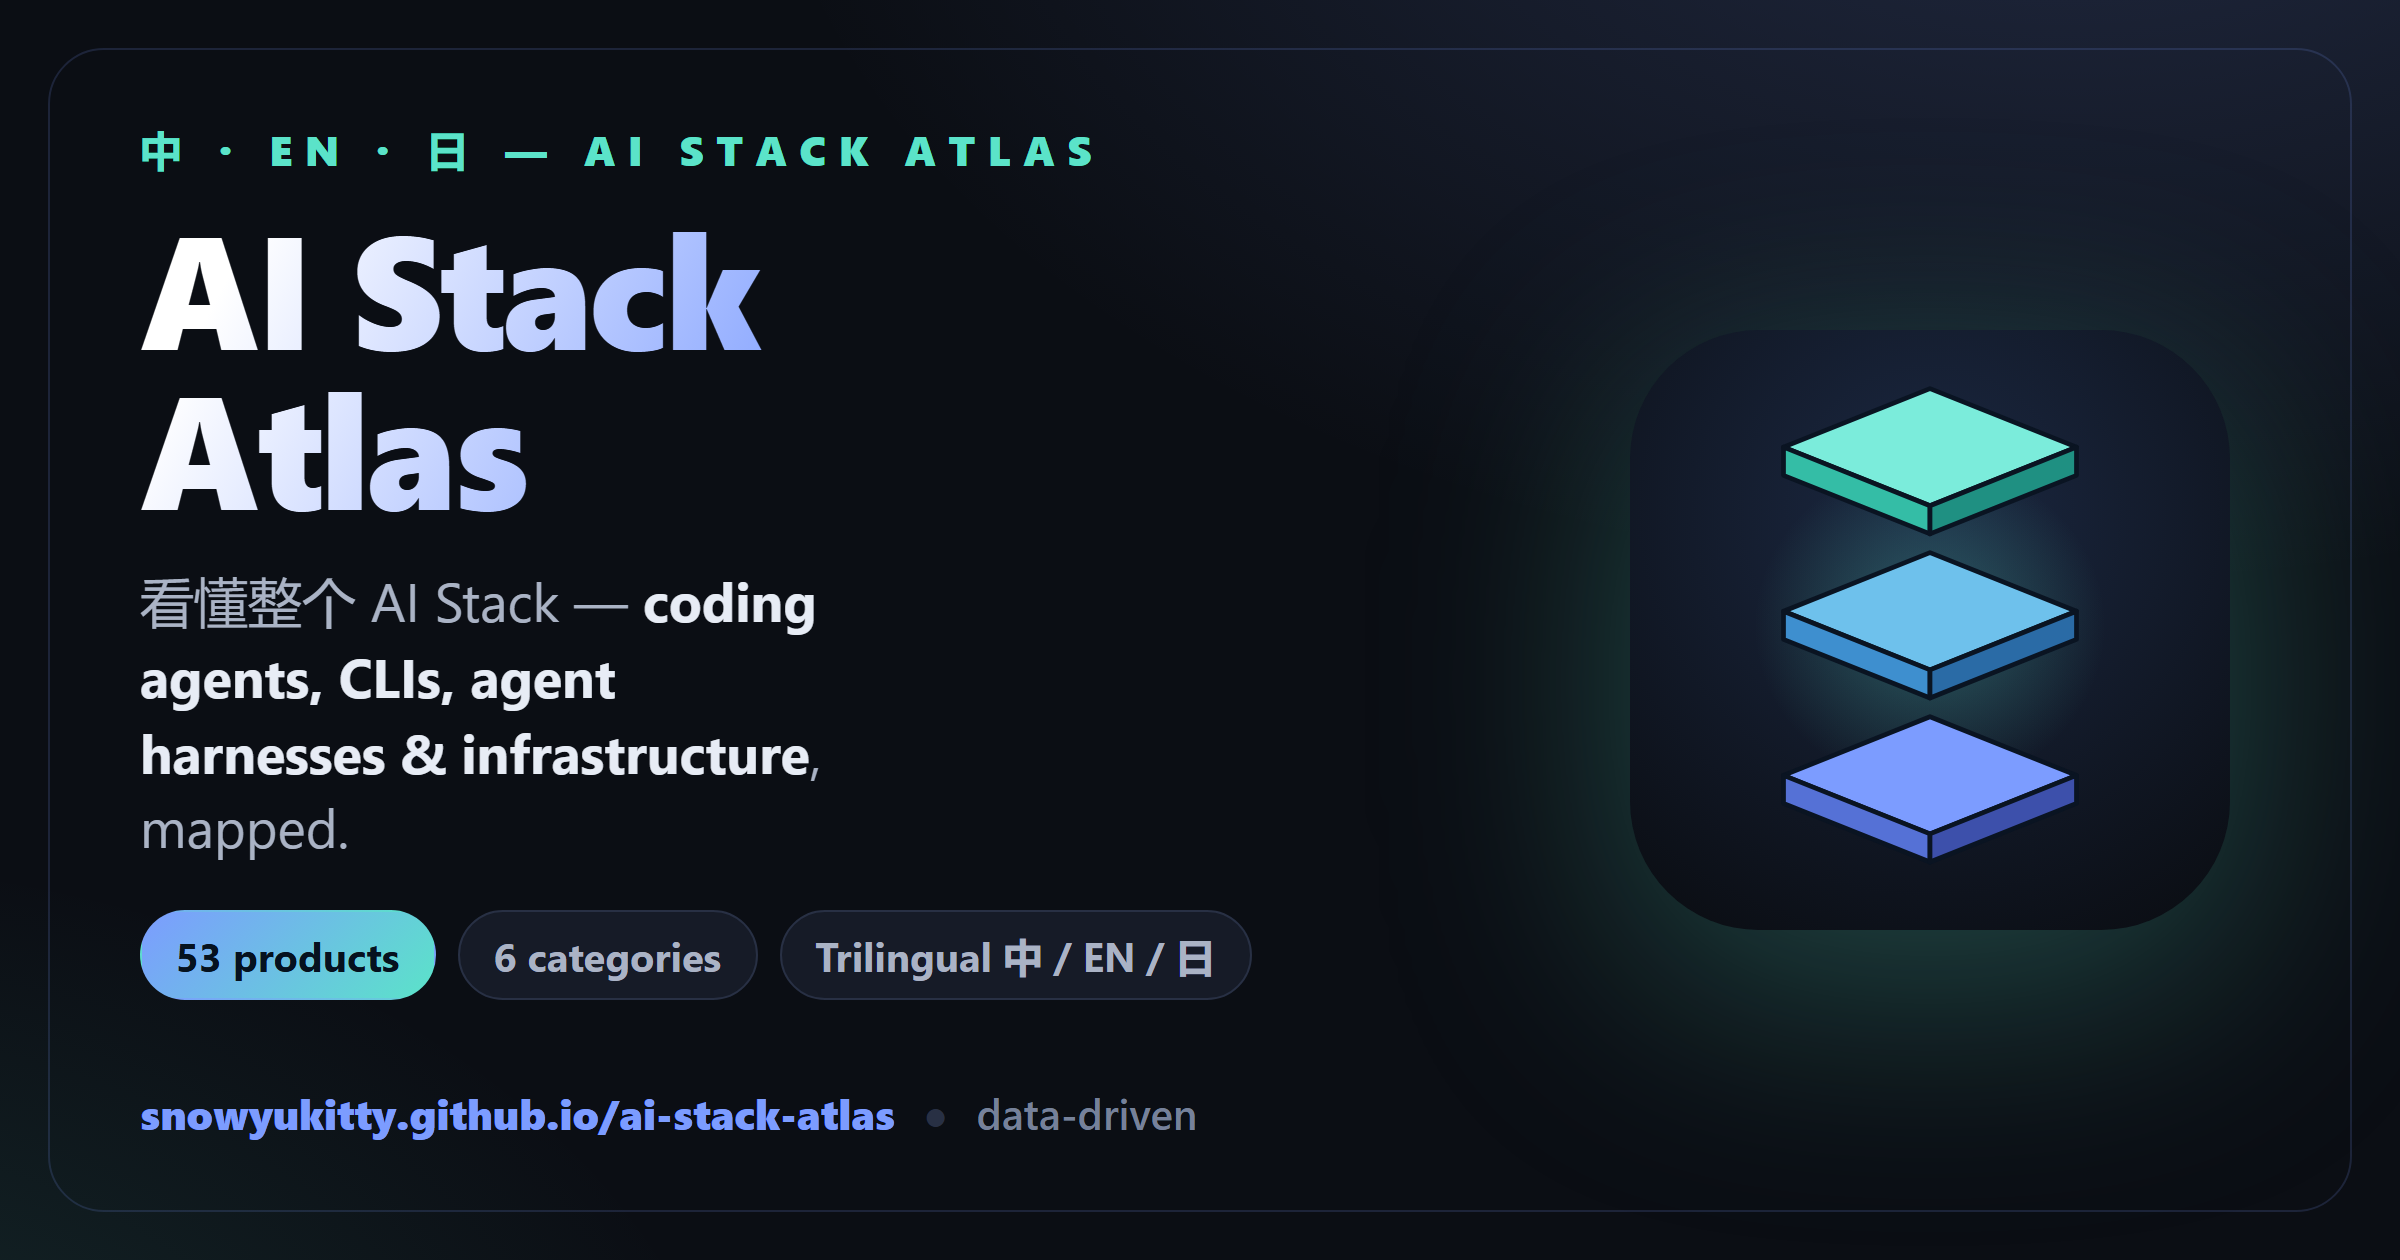
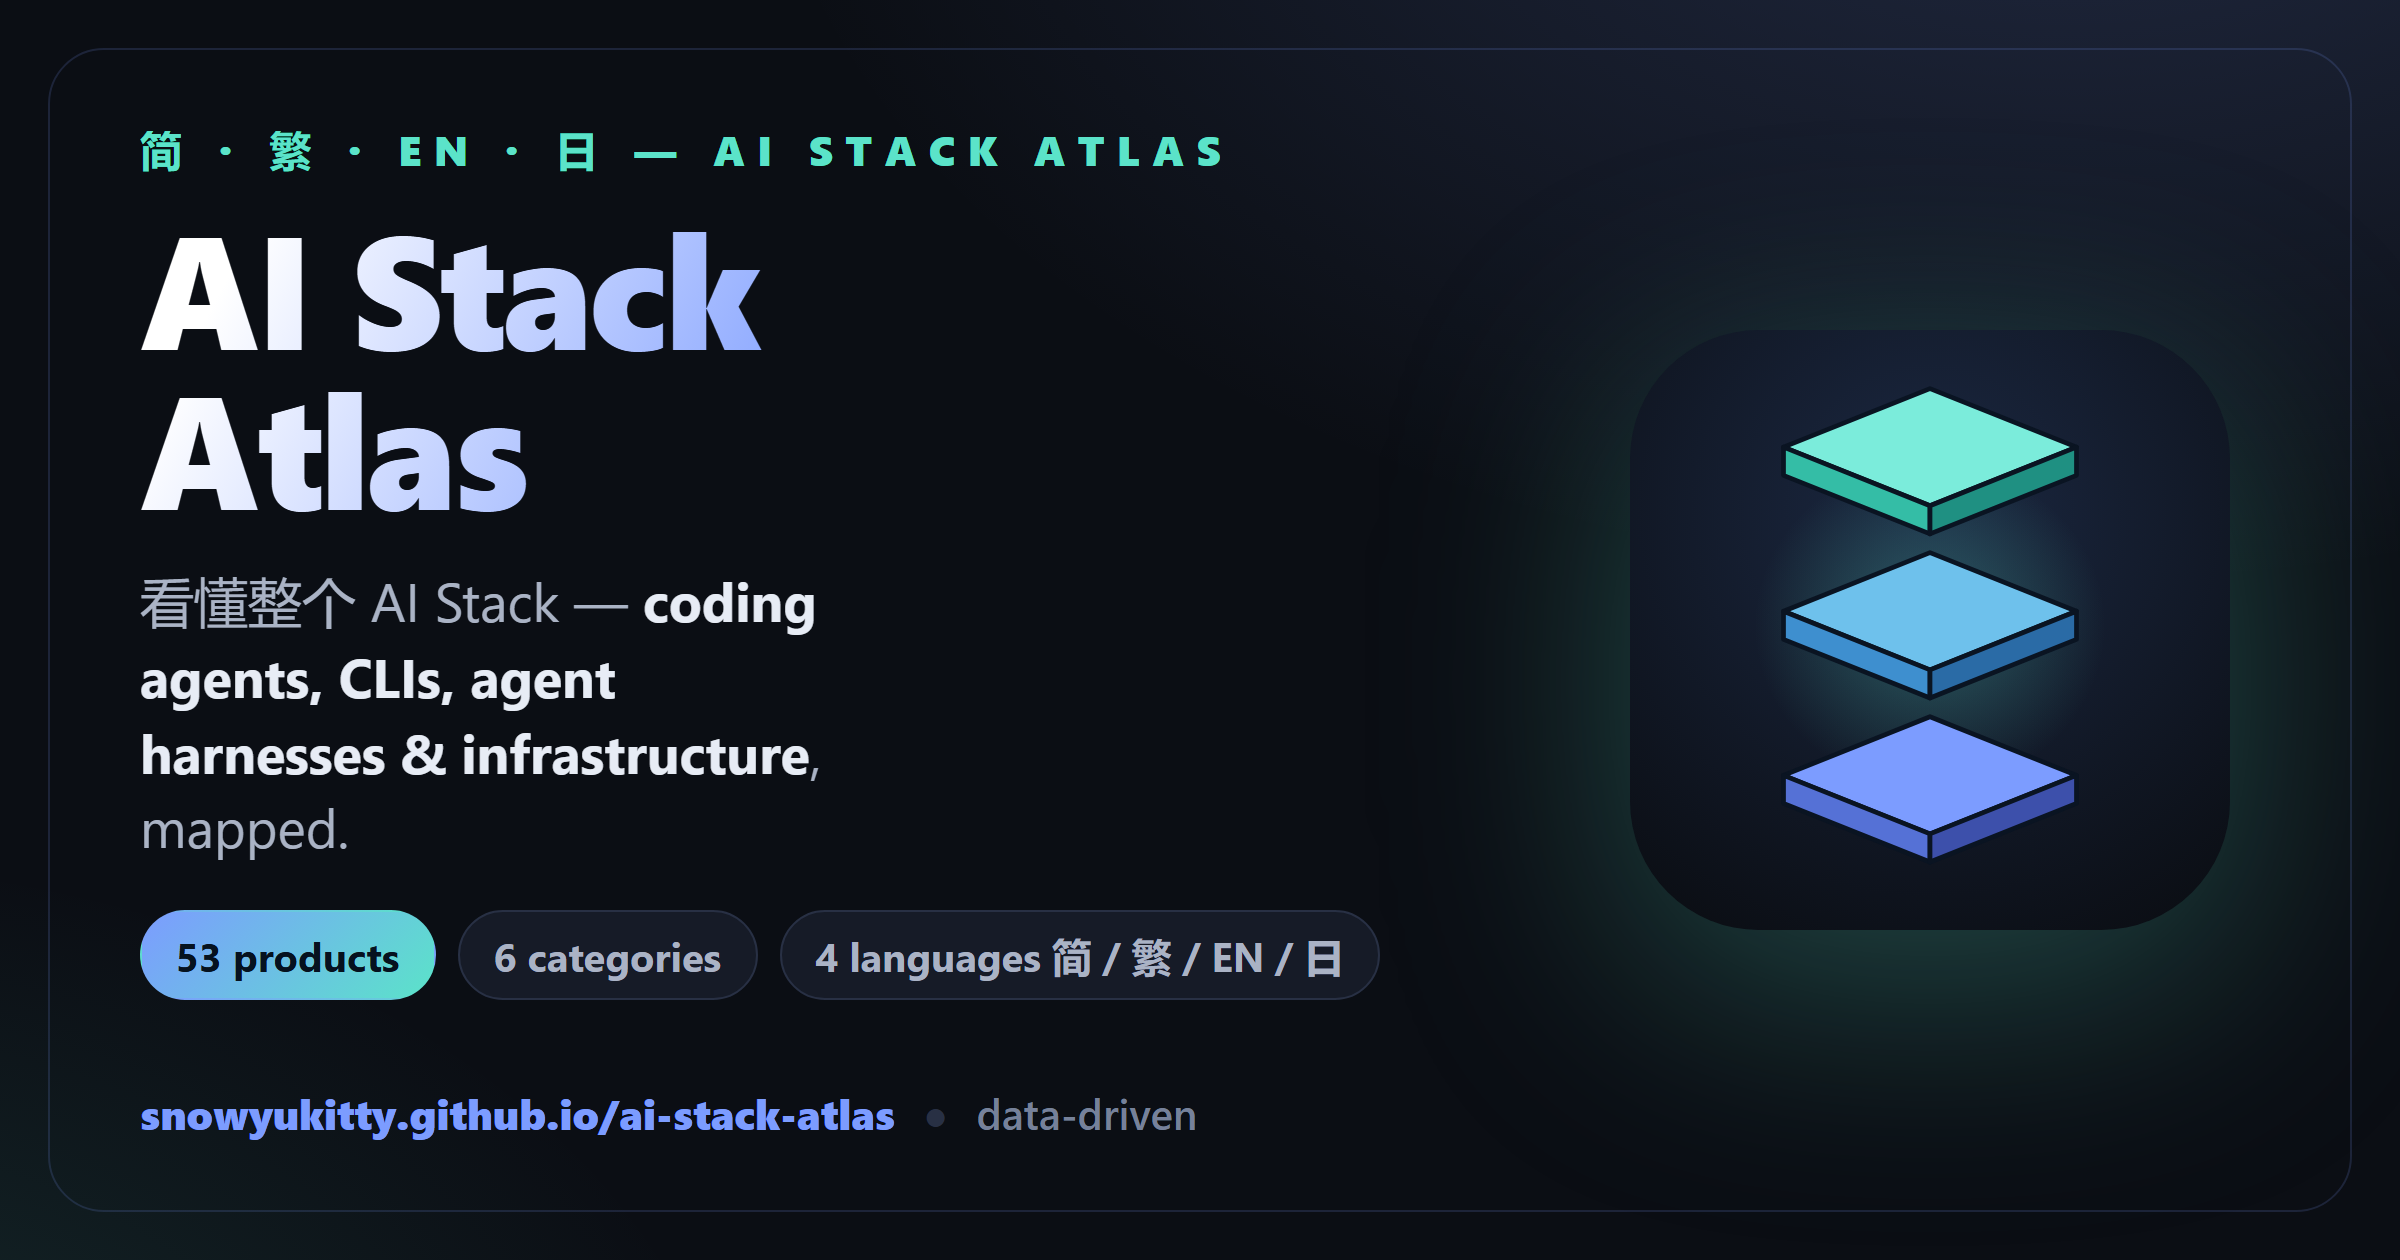
Add Traditional Chinese (4 languages) + authoritative data/links; Fable 5 rating
Languages (4: 简 / 繁 / EN / 日)
- Traditional Chinese derived from Simplified `zh` at BUILD TIME via OpenCC
  (opencc-js, Taiwan `twp` preset) — no data duplication. New src/lib/hant.ts
  + type shim; L.astro renders a 4th `lang="hant"` span.
- Wired i18n CSS, Header 4 buttons, Base lang detection/attr (zh-Hant),
  CatalogView count grammar, ProductCard search haystack.

Data / authority
- Claude Fable 5 personal rating set to 5.
- New RankList.sourceLinks: authoritative leaderboards (Terminal-Bench/tbench.ai,
  SWE-bench Pro/Scale + swebench.com, AA Index/artificialanalysis.ai + Arena).
- Artificial Analysis link on all 6 model cards; Arena (Elo) link on Opus 4.8.

Shareability copy updated to 4 languages (OG card regenerated, README, meta).

Verify green; smoke 44/44 (added Traditional-language + social-meta checks).

Changed region(s): [[0.0625, 0.0929, 0.5, 0.1548], [0.3438, 0.7429, 0.5625, 0.7738]]

diff --git a/src/data/products.ts b/src/data/products.ts
@@ -1612,7 +1612,7 @@ export const products: Product[] = [
     pricing: { zh: '$10 / $50 每百万 token', en: '$10 / $50 per 1M tokens', ja: '$10 / $50 / 百万トークン' },
     license: 'closed',
     status: 'active',
-    // TODO(owner): set a personal rating (0–5) — left unset pending your call.
+    rating: 5,
     benchmarks: [
       { label: 'Terminal-Bench 2.1', value: '88.0% · #1' },
       { label: 'SWE-bench Pro', value: '80.3% · #1' },
@@ -1628,7 +1628,10 @@ export const products: Product[] = [
       { zh: '安全回退会把部分查询转回 Opus 4.8；综合 AA 指数略低于 Opus', en: 'Safety fallback reroutes some queries to Opus 4.8; composite AA Index just below Opus', ja: '安全回退で一部照会が Opus 4.8 へ；総合 AA 指数は Opus をやや下回る' },
     ],
     bestFor: { zh: '最硬的编程 / agent 任务、可接受溢价', en: 'The hardest coding/agentic jobs, premium acceptable', ja: '最難のコーディング／agent 業務・割増許容' },
-    links: [{ label: 'Anthropic', url: 'https://www.anthropic.com/claude' }],
+    links: [
+      { label: 'Anthropic', url: 'https://www.anthropic.com/claude' },
+      { label: 'Artificial Analysis', url: 'https://artificialanalysis.ai/models/claude-fable-5' },
+    ],
     tags: ['model', 'anthropic', 'frontier', 'coding'],
     featured: true,
   },
@@ -1666,7 +1669,11 @@ export const products: Product[] = [
       { zh: '上下文 1M，略小于 GPT-5.5 / Grok', en: '1M context, smaller than GPT-5.5 / Grok', ja: '文脈 1M で GPT-5.5 / Grok より小さい' },
     ],
     bestFor: { zh: '编程、agent、要可靠推理的一切', en: 'Coding, agents, anything needing reliable reasoning', ja: 'コーディング・agent・信頼推論が要る全て' },
-    links: [{ label: 'Anthropic', url: 'https://www.anthropic.com/claude' }],
+    links: [
+      { label: 'Anthropic', url: 'https://www.anthropic.com/claude' },
+      { label: 'Artificial Analysis', url: 'https://artificialanalysis.ai/models' },
+      { label: 'Arena (Elo)', url: 'https://arena.ai/leaderboard/' },
+    ],
     tags: ['model', 'anthropic', 'frontier', 'coding'],
     featured: true,
   },
@@ -1705,7 +1712,10 @@ export const products: Product[] = [
       { zh: '价格高于 Opus 4.8', en: 'Pricier than Opus 4.8', ja: 'Opus 4.8 より高価' },
     ],
     bestFor: { zh: '工具密集型 agent、Codex 用户', en: 'Tool-heavy agents, Codex users', ja: 'ツール集約 agent・Codex ユーザー' },
-    links: [{ label: 'OpenAI', url: 'https://openai.com' }],
+    links: [
+      { label: 'OpenAI', url: 'https://openai.com' },
+      { label: 'Artificial Analysis', url: 'https://artificialanalysis.ai/models' },
+    ],
     tags: ['model', 'openai', 'frontier'],
   },
   {
@@ -1740,7 +1750,10 @@ export const products: Product[] = [
       { zh: '纯编程实测略逊第一梯队', en: 'Pure coding trails the top tier', ja: '純コーディングは第一線にやや劣る' },
     ],
     bestFor: { zh: '多模态、长上下文、Google 生态', en: 'Multimodal, long context, Google ecosystem', ja: '多モーダル・長文脈・Google 生態系' },
-    links: [{ label: 'Google DeepMind', url: 'https://deepmind.google/technologies/gemini/' }],
+    links: [
+      { label: 'Google DeepMind', url: 'https://deepmind.google/technologies/gemini/' },
+      { label: 'Artificial Analysis', url: 'https://artificialanalysis.ai/models' },
+    ],
     tags: ['model', 'google', 'multimodal', 'long-context'],
   },
   {
@@ -1776,7 +1789,10 @@ export const products: Product[] = [
       { zh: '综合智能略逊前三家', en: 'Overall intelligence below the top three', ja: '総合知能は上位 3 社に劣る' },
     ],
     bestFor: { zh: '超长上下文、速度 / 成本敏感', en: 'Ultra-long context, speed/cost sensitive', ja: '超長文脈・速度／コスト重視' },
-    links: [{ label: 'xAI', url: 'https://x.ai' }],
+    links: [
+      { label: 'xAI', url: 'https://x.ai' },
+      { label: 'Artificial Analysis', url: 'https://artificialanalysis.ai/models' },
+    ],
     tags: ['model', 'xai', 'long-context'],
   },
   {
@@ -1811,7 +1827,10 @@ export const products: Product[] = [
       { zh: '前沿能力略逊四大旗舰', en: 'Frontier ability below the big four', ja: '最前線能力は四大旗艦に劣る' },
     ],
     bestFor: { zh: '预算敏感、隐私 / 本地部署', en: 'Budget-sensitive, privacy / on-prem', ja: '予算重視・プライバシー／オンプレ' },
-    links: [{ label: 'Qwen', url: 'https://qwen.ai' }],
+    links: [
+      { label: 'Qwen', url: 'https://qwen.ai' },
+      { label: 'Artificial Analysis', url: 'https://artificialanalysis.ai/models' },
+    ],
     tags: ['model', 'qwen', 'budget', 'open-weights'],
   },
 ];

diff --git a/src/lib/hant.ts b/src/lib/hant.ts
@@ -1,0 +1,15 @@
+// Build-time Simplified -> Traditional Chinese conversion.
+//
+// The dataset stays trilingual (zh / en / ja). Traditional Chinese ("繁") is a
+// FOURTH *display* locale derived from the Simplified `zh` text at build time via
+// OpenCC, so we render it into the HTML without duplicating hundreds of strings.
+// `twp` = Simplified -> Traditional (Taiwan standard, with phrase/vocabulary
+// localization, e.g. 软件->軟體, 网络->網路, 鼠标->滑鼠). OpenCC only touches CJK
+// characters, so any inline HTML/ASCII in a string passes through untouched.
+import { Converter } from 'opencc-js';
+
+const convert = Converter({ from: 'cn', to: 'twp' });
+
+export function toHant(s: string): string {
+  return convert(s);
+}

diff --git a/src/data/rankings.ts b/src/data/rankings.ts
@@ -1,4 +1,4 @@
-import type { Loc } from '../lib/types';
+import type { Loc, LinkRef } from '../lib/types';
 
 export interface RankRow {
   rank: number;
@@ -21,6 +21,8 @@ export interface RankList {
   unit?: string;
   /** Source note for benchmark lists. */
   source?: Loc;
+  /** Authoritative leaderboard / source links (benchmark lists). */
+  sourceLinks?: LinkRef[];
 }
 
 export const rankings: RankList[] = [
@@ -74,6 +76,7 @@ export const rankings: RankList[] = [
       { rank: 4, productId: 'gemini-cli', name: 'Gemini / Antigravity (Gemini 3.1 Pro)', score: 70.7, note: { zh: '70.7%', en: '70.7%', ja: '70.7%' } },
     ],
     source: { zh: '来源：公开 Terminal-Bench 2.1 榜单（2026）。', en: 'Source: public Terminal-Bench 2.1 leaderboard (2026).', ja: '出典：公開 Terminal-Bench 2.1 リーダーボード（2026）。' },
+    sourceLinks: [{ label: 'Terminal-Bench leaderboard', url: 'https://www.tbench.ai/leaderboard/terminal-bench/2.1' }],
   },
   {
     id: 'swe-bench-pro',
@@ -92,6 +95,10 @@ export const rankings: RankList[] = [
       { rank: 3, productId: 'gpt-55', name: 'GPT-5.5', score: 58.6, note: { zh: '58.6%', en: '58.6%', ja: '58.6%' } },
     ],
     source: { zh: '来源：SWE-bench Pro 公开数据（2026）。', en: 'Source: SWE-bench Pro public data (2026).', ja: '出典：SWE-bench Pro 公開データ（2026）。' },
+    sourceLinks: [
+      { label: 'Scale leaderboard', url: 'https://scale.com/leaderboard/swe_bench_pro_public' },
+      { label: 'SWE-bench', url: 'https://www.swebench.com/' },
+    ],
   },
   {
     id: 'aa-index',
@@ -111,5 +118,9 @@ export const rankings: RankList[] = [
       { rank: 5, productId: 'grok-43', name: 'Grok 4.3', score: 53, note: { zh: '~53', en: '~53', ja: '~53' } },
     ],
     source: { zh: '来源：Artificial Analysis（2026 年 6 月）。', en: 'Source: Artificial Analysis (June 2026).', ja: '出典：Artificial Analysis（2026 年 6 月）。' },
+    sourceLinks: [
+      { label: 'Artificial Analysis', url: 'https://artificialanalysis.ai/' },
+      { label: 'Arena (LMArena) Elo', url: 'https://arena.ai/leaderboard/' },
+    ],
   },
 ];

diff --git a/src/data/ui.ts b/src/data/ui.ts
@@ -73,9 +73,9 @@ export const ui = {
   },
   footer: {
     built: {
-      zh: '一个会持续更新的 AI Stack 知识库 · 数据驱动 · 三语',
-      en: 'A continuously updated AI-stack knowledge base · data-driven · trilingual',
-      ja: '継続更新する AI スタック知識ベース · データ駆動 · 三言語',
+      zh: '一个会持续更新的 AI Stack 知识库 · 数据驱动 · 四语（简 / 繁 / EN / 日）',
+      en: 'A continuously updated AI-stack knowledge base · data-driven · 4 languages (简 / 繁 / EN / 日)',
+      ja: '継続更新する AI スタック知識ベース · データ駆動 · 4 言語（简 / 繁 / EN / 日）',
     },
     disclaimer: {
       zh: '评分与定位为个人观点，benchmark 数据引自公开来源，会随版本变化。',

diff --git a/src/opencc-js.d.ts b/src/opencc-js.d.ts
@@ -1,0 +1,6 @@
+// Minimal type shim for opencc-js (ships no types). We only use the high-level
+// Converter preset API: Converter({ from, to }) -> (text) => text.
+declare module 'opencc-js' {
+  type Locale = 'cn' | 'tw' | 'twp' | 't' | 'hk' | 'jp';
+  export function Converter(options: { from: Locale; to: Locale }): (text: string) => string;
+}

diff --git a/src/styles/global.css b/src/styles/global.css
@@ -110,11 +110,13 @@ code, kbd {
    ============================================================ */
 .i18n > [lang] { display: none; }
 html[data-lang="zh"] .i18n > [lang="zh"] { display: revert; }
+html[data-lang="hant"] .i18n > [lang="hant"] { display: revert; }
 html[data-lang="en"] .i18n > [lang="en"] { display: revert; }
 html[data-lang="ja"] .i18n > [lang="ja"] { display: revert; }
 /* block-level variant */
 .i18n-block > [lang] { display: none; }
 html[data-lang="zh"] .i18n-block > [lang="zh"] { display: block; }
+html[data-lang="hant"] .i18n-block > [lang="hant"] { display: block; }
 html[data-lang="en"] .i18n-block > [lang="en"] { display: block; }
 html[data-lang="ja"] .i18n-block > [lang="ja"] { display: block; }
 
@@ -401,6 +403,7 @@ details.pc[open] summary::before { content: "▾ "; }
    ============================================================ */
 .ranklist { margin-bottom: 1.6rem; }
 .ranklist .src { font-size: 0.78rem; color: var(--text-dim); margin-top: 0.5rem; }
+.ranklist .src .srclink { font-weight: 700; margin-left: 0.7rem; white-space: nowrap; }
 table.rank { width: 100%; border-collapse: collapse; font-size: 0.9rem; }
 table.rank th, table.rank td { text-align: left; padding: 0.55rem 0.7rem; border-bottom: 1px solid var(--border-soft); vertical-align: top; }
 table.rank th { color: var(--text-dim); font-size: 0.74rem; text-transform: uppercase; letter-spacing: 0.06em; }

diff --git a/README.md b/README.md
@@ -1,15 +1,15 @@
 <div align="center">
 
-<img src="public/og.png" alt="AI Stack Atlas — a trilingual field guide to the modern AI stack" width="820">
+<img src="public/og.png" alt="AI Stack Atlas — a four-language field guide to the modern AI stack" width="820">
 
 # AI Stack Atlas · AI Stack 图鉴
 
 ### **[🔗 Live site → snowyukitty.github.io/ai-stack-atlas](https://snowyukitty.github.io/ai-stack-atlas/)**
 
-A **trilingual (中文 · English · 日本語)**, data-driven field guide & comparison hub for the
-modern AI stack — **coding agents · CLIs · agent harnesses · infrastructure**.
+A **four-language (简体 · 繁體 · English · 日本語)**, data-driven field guide & comparison hub
+for the modern AI stack — **coding agents · CLIs · agent harnesses · infrastructure**.
 
-`53 products` · `6 categories` · `side-by-side compare` · `benchmarks & charts` · `one self-contained file`
+`53 products` · `6 categories` · `4 languages` · `side-by-side compare` · `benchmarks & charts` · `one self-contained file`
 
 </div>
 
@@ -63,9 +63,13 @@ Requires Node 22.12+ (Astro 7's minimum; developed on Node 22). `npm install` is
 
 ## How it works
 
-The site renders **all three languages into the HTML**, and CSS shows only the active
+The site renders **all four languages into the HTML**, and CSS shows only the active
 one based on `<html data-lang="…">`. Switching language (or light/dark theme) is instant,
 client-side, and persisted to `localStorage` — no rebuild, no page reload.
+
+The data is authored in **three locales** (`zh` 简体 / `en` / `ja`); **Traditional Chinese
+(繁體) is derived from `zh` at build time** via OpenCC (`src/lib/hant.ts`, Taiwan `twp`
+preset), so the 4th language needs no duplicated strings.
 
 ```
 src/
@@ -77,7 +81,7 @@ src/
     ui.ts              · UI strings + LAST_UPDATED lives in products.ts
   lib/types.ts         · the data model (Product, Concept, …)
   components/
-    L.astro            · trilingual text helper ({zh,en,ja})
+    L.astro            · i18n text helper ({zh,en,ja}; 繁 derived from zh via lib/hant.ts)
     Header / Footer / ProductCard
     views/             · Home, Catalog, Compare (matrices), Concepts, Rankings (bar charts), Stack
   layouts/Base.astro   · <head>, inlined favicon, lang/theme + single-page router scripts